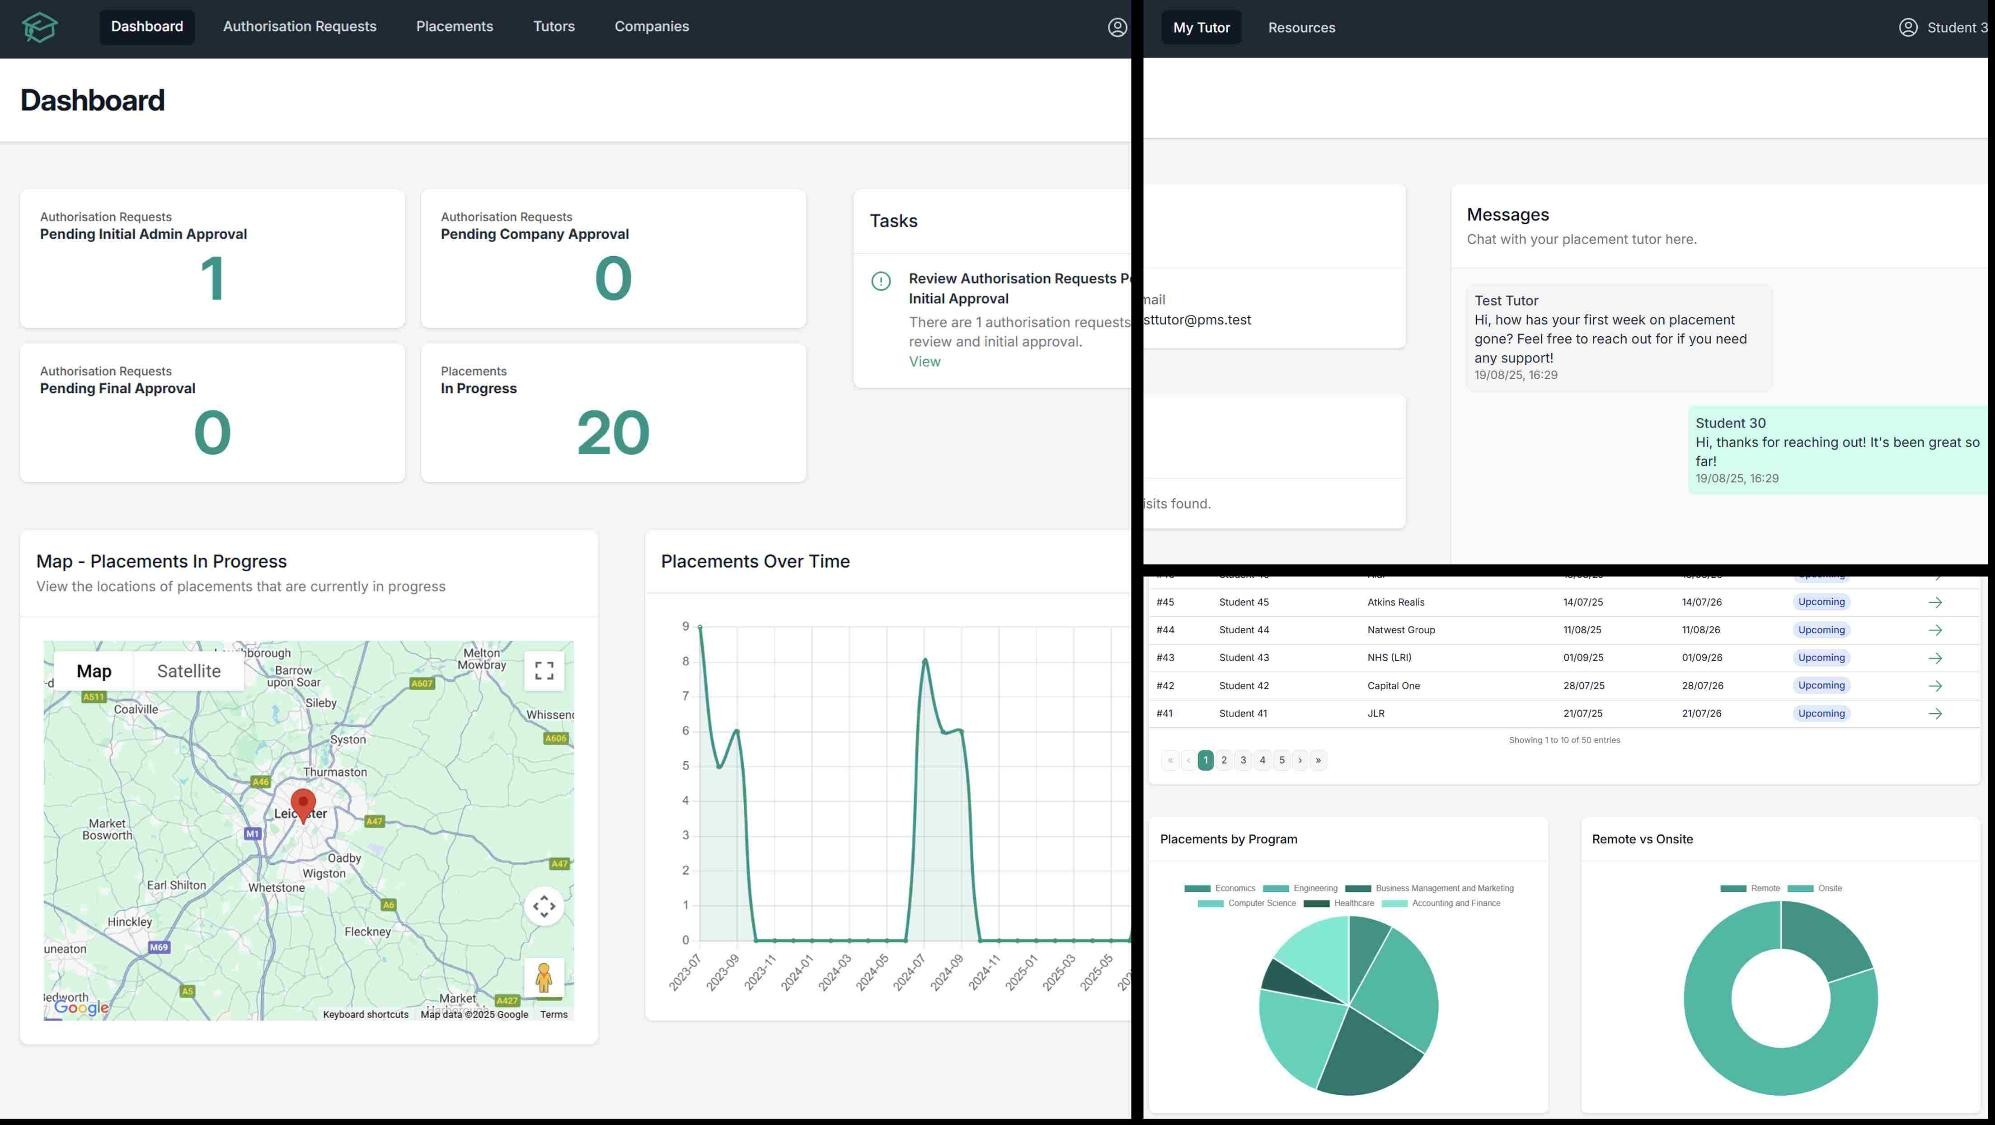
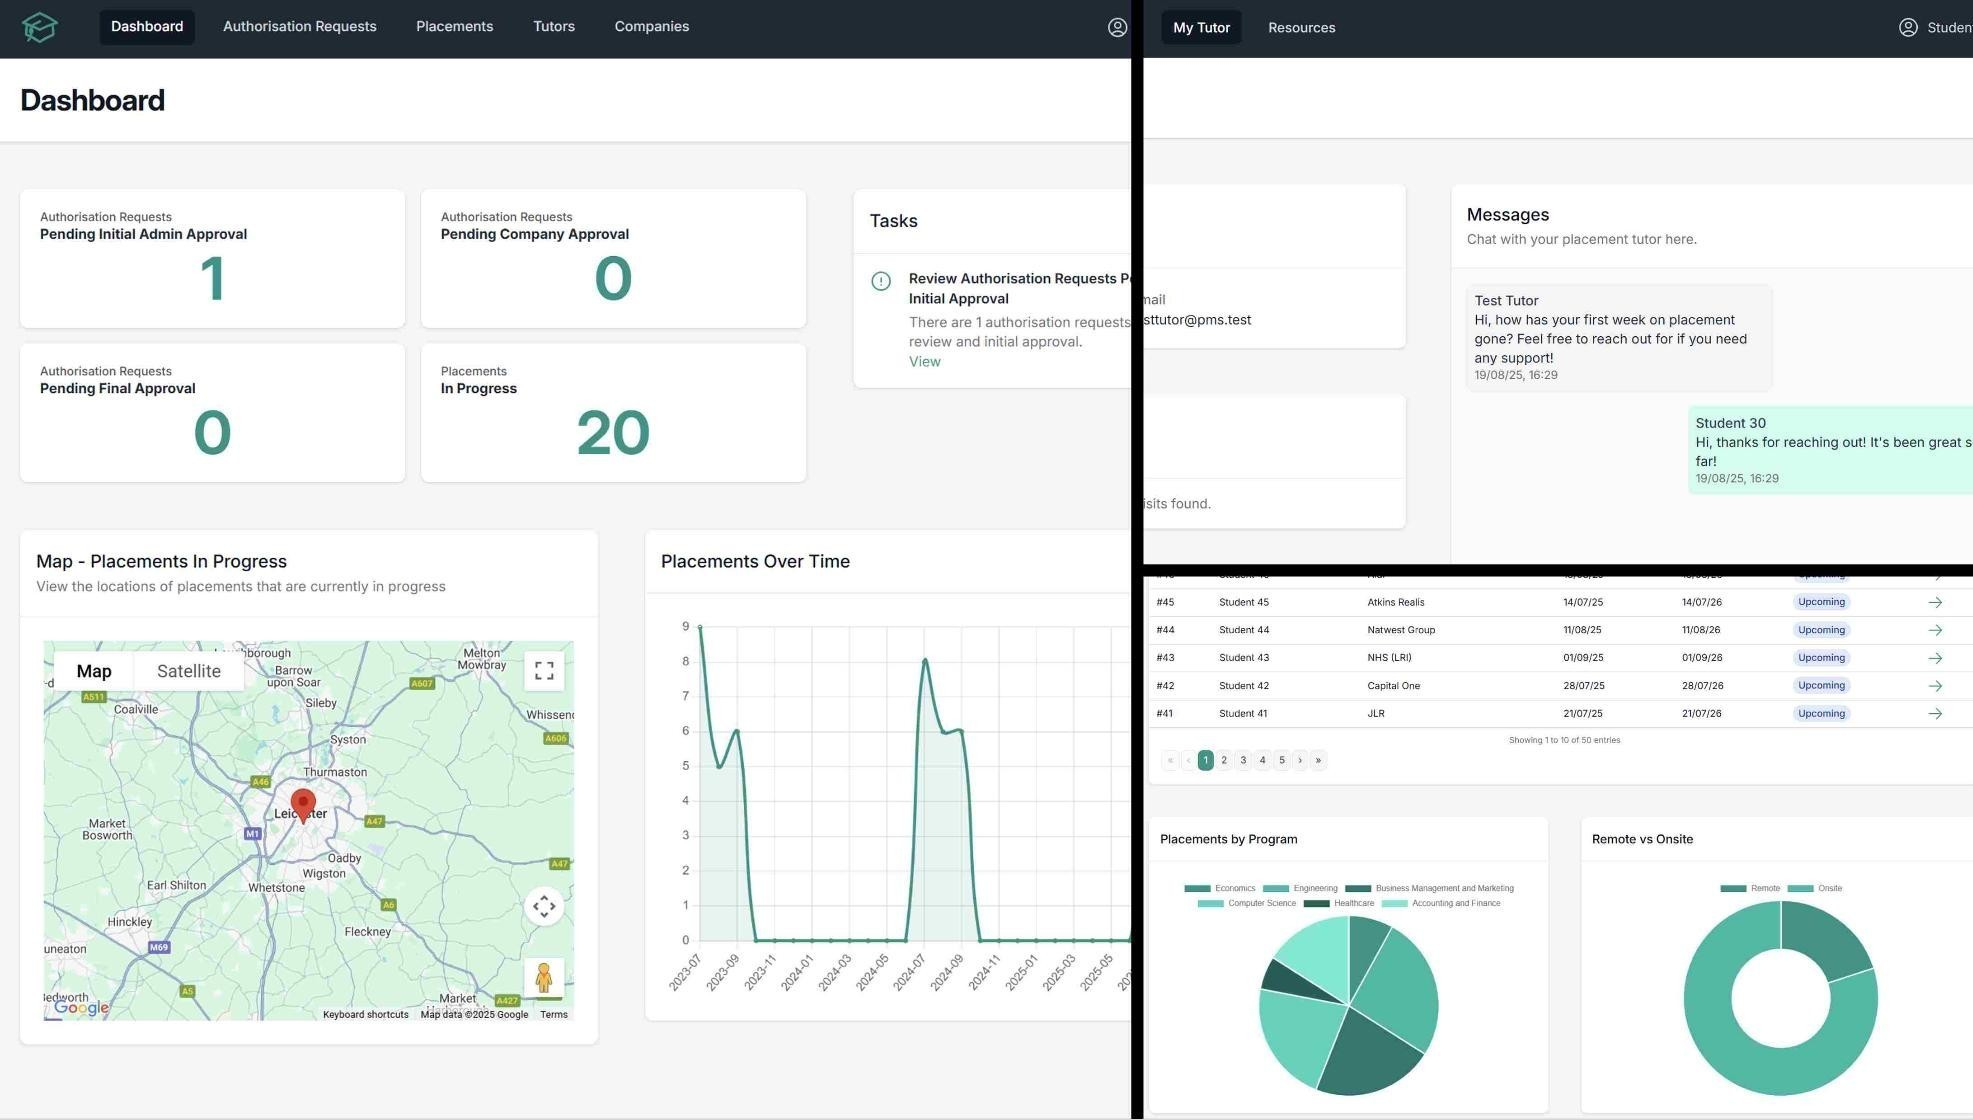
Clean project cards - add fade to images and adjust border and spacing

diff --git a/sections/projects-section.jsx b/sections/projects-section.jsx
@@ -14,9 +14,9 @@ export default function ProjectsSection() {
                     <CarouselContent className="py-16 gap-10">
                         {/*Placement Management System*/}
                         <CarouselItem className="md:basis-1/2">
-                            <div className="p-0.5 relative rounded-xl bg-gradient-to-r from-cyan-400 to-emerald-500">
+                            <div className="p-0.5 relative rounded-2xl bg-gradient-to-r from-cyan-400 to-emerald-500">
                                 <Card
-                                    className="relative overflow-hidden w-full h-full p-0.5">
+                                    className="relative overflow-hidden w-full h-full p-0">
                                     {/*Image container*/}
                                     <div className="relative w-full h-72 rounded-t-lg overflow-hidden">
                                         <Image src="/images/placement-management-system.jpg"
@@ -25,6 +25,8 @@ export default function ProjectsSection() {
                                                className="object-cover"
                                                loading="eager"
                                         />
+                                        <div
+                                            className="absolute bottom-0 left-0 w-full h-1/4 bg-gradient-to-t from-card to-transparent pointer-events-none"/>
                                     </div>
                                     {/*Title and Description container*/}
                                     <div className="mx-4">
@@ -61,9 +63,9 @@ export default function ProjectsSection() {
 
                         {/*Airbnb Price Prediction Machine Learning Model*/}
                         <CarouselItem className="md:basis-1/2">
-                            <div className="p-0.5 relative rounded-xl bg-gradient-to-r from-cyan-400 to-emerald-500">
+                            <div className="p-0.5 relative rounded-2xl bg-gradient-to-r from-cyan-400 to-emerald-500">
                                 <Card
-                                    className="relative overflow-hidden w-full h-full p-0.5">
+                                    className="relative overflow-hidden w-full h-full p-0">
                                     {/*Image container*/}
                                     <div className="relative w-full h-72 rounded-t-lg overflow-hidden">
                                         <Image src="/images/airbnb-price-prediction-ml-model.jpg"
@@ -72,6 +74,8 @@ export default function ProjectsSection() {
                                                className="object-cover"
                                                loading="eager"
                                         />
+                                        <div
+                                            className="absolute bottom-0 left-0 w-full h-1/4 bg-gradient-to-t from-card to-transparent pointer-events-none"/>
                                     </div>
                                     {/*Title and Description container*/}
                                     <div className="mx-4">
@@ -100,9 +104,9 @@ export default function ProjectsSection() {
 
                         {/*Personal Portfolio Website*/}
                         <CarouselItem className="md:basis-1/2">
-                            <div className="p-0.5 relative rounded-xl bg-gradient-to-r from-cyan-400 to-emerald-500">
+                            <div className="p-0.5 relative rounded-2xl bg-gradient-to-r from-cyan-400 to-emerald-500">
                                 <Card
-                                    className="relative overflow-hidden w-full h-full p-0.5">
+                                    className="relative overflow-hidden w-full h-full p-0">
                                     {/*Image container*/}
                                     <div className="relative w-full h-72 rounded-t-lg overflow-hidden">
                                         <Image src="/images/personal-portfolio-website.jpg"
@@ -111,6 +115,8 @@ export default function ProjectsSection() {
                                                className="object-cover"
                                                loading="eager"
                                         />
+                                        <div
+                                            className="absolute bottom-0 left-0 w-full h-1/4 bg-gradient-to-t from-card to-transparent pointer-events-none"/>
                                     </div>
                                     {/*Title and Description container*/}
                                     <div className="mx-4">
@@ -140,9 +146,9 @@ export default function ProjectsSection() {
 
                         {/*Connect 4 Game with AI Opponent*/}
                         <CarouselItem className="md:basis-1/2">
-                            <div className="p-0.5 relative rounded-xl bg-gradient-to-r from-cyan-400 to-emerald-500">
+                            <div className="p-0.5 relative rounded-2xl bg-gradient-to-r from-cyan-400 to-emerald-500">
                                 <Card
-                                    className="relative overflow-hidden w-full h-full p-0.5">
+                                    className="relative overflow-hidden w-full h-full p-0">
                                     {/*Image container*/}
                                     <div className="relative w-full h-72 rounded-t-lg overflow-hidden">
                                         <Image src="/images/connect-4.jpg"
@@ -151,6 +157,8 @@ export default function ProjectsSection() {
                                                className="object-cover"
                                                loading="eager"
                                         />
+                                        <div
+                                            className="absolute bottom-0 left-0 w-full h-1/4 bg-gradient-to-t from-card to-transparent pointer-events-none"/>
                                     </div>
                                     {/*Title and Description container*/}
                                     <div className="mx-4">
@@ -178,9 +186,9 @@ export default function ProjectsSection() {
 
                         {/*Petition Platform*/}
                         <CarouselItem className="md:basis-1/2">
-                            <div className="p-0.5 relative rounded-xl bg-gradient-to-r from-cyan-400 to-emerald-500">
+                            <div className="p-0.5 relative rounded-2xl bg-gradient-to-r from-cyan-400 to-emerald-500">
                                 <Card
-                                    className="relative overflow-hidden w-full h-full p-0.5">
+                                    className="relative overflow-hidden w-full h-full p-0">
                                     {/*Image container*/}
                                     <div className="relative w-full h-72 rounded-t-lg overflow-hidden">
                                         <Image src="/images/petition-platform.jpg"
@@ -189,6 +197,8 @@ export default function ProjectsSection() {
                                                className="object-cover"
                                                loading="eager"
                                         />
+                                        <div
+                                            className="absolute bottom-0 left-0 w-full h-1/4 bg-gradient-to-t from-card to-transparent pointer-events-none"/>
                                     </div>
                                     {/*Title and Description container*/}
                                     <div className="mx-4">
@@ -223,9 +233,9 @@ export default function ProjectsSection() {
 
                         {/*Stock Market Simulator*/}
                         <CarouselItem className="md:basis-1/2">
-                            <div className="p-0.5 relative rounded-xl bg-gradient-to-r from-cyan-400 to-emerald-500">
+                            <div className="p-0.5 relative rounded-2xl bg-gradient-to-r from-cyan-400 to-emerald-500">
                                 <Card
-                                    className="relative overflow-hidden w-full h-full p-0.5">
+                                    className="relative overflow-hidden w-full h-full p-0">
                                     {/*Image container*/}
                                     <div className="relative w-full h-72 rounded-t-lg overflow-hidden">
                                         <Image src="/images/stock-market-simulator.jpg"
@@ -234,6 +244,8 @@ export default function ProjectsSection() {
                                                className="object-cover"
                                                loading="eager"
                                         />
+                                        <div
+                                            className="absolute bottom-0 left-0 w-full h-1/4 bg-gradient-to-t from-card to-transparent pointer-events-none"/>
                                     </div>
                                     {/*Title and Description container*/}
                                     <div className="mx-4">

diff --git a/sections/skills-section.jsx b/sections/skills-section.jsx
@@ -15,7 +15,7 @@ export default function SkillsSection() {
                         </CardHeader>
                         <CardContent>
                             <div className="flex flex-wrap gap-6">
-                                <i className="devicon-python-plain-wordmark text-neutral-800 dark:text-neutral-200 text-4xl sm:text-5xl hover:scale-110 transition-transform duration-200"></i>
+                                <i className="devicon-python-plain-wordmark text-neutral-800 dark:text-neutral-200 text-4xl sm:text-5xl hover:scale-110 focus:scale-110 transition-transform duration-200"></i>
                                 <i className="devicon-java-plain-wordmark text-neutral-800 dark:text-neutral-200 text-4xl sm:text-5xl hover:scale-110 transition-transform duration-200"></i>
                                 <i className="devicon-cplusplus-plain text-neutral-800 dark:text-neutral-200 text-4xl sm:text-5xl hover:scale-110 transition-transform duration-200"></i>
                                 <i className="devicon-azuresqldatabase-plain text-neutral-800 dark:text-neutral-200 text-4xl sm:text-5xl hover:scale-110 transition-transform duration-200"></i>

diff --git a/components/ui/card.jsx b/components/ui/card.jsx
@@ -10,7 +10,7 @@ function Card({
     <div
       data-slot="card"
       className={cn(
-        "bg-card text-card-foreground flex flex-col gap-6 rounded-xl border py-6 shadow-sm",
+        "bg-card text-card-foreground flex flex-col gap-6 rounded-xl border-0 py-6 shadow-sm",
         className
       )}
       {...props} />
